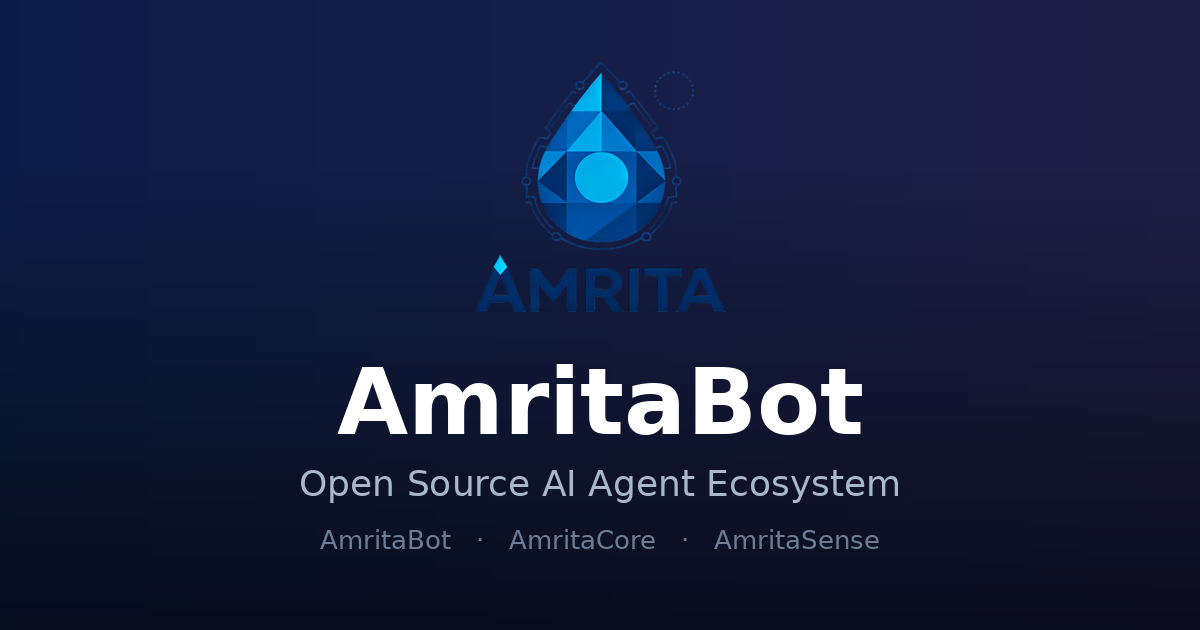
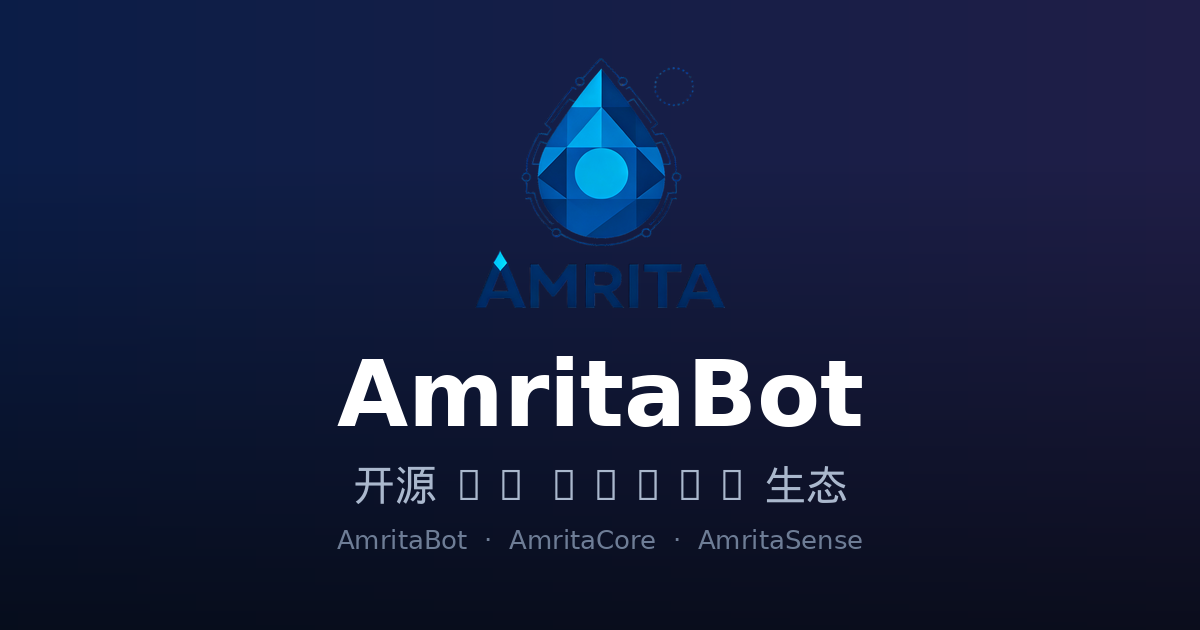
Switch the site copy to Chinese
The landing page is Chinese-facing, so every user-visible string is now
Chinese: nav, hero tagline and subtitle, section headings, project kinds
and descriptions, status badges, card link labels, footer, 404 page —
plus html lang, og:locale, JSON-LD inLanguage and the web manifest.

Product names, version numbers, repo names and the terms the docs sites
already use in English (Agent, runtime, ISA, MCP, WebUI) stay as-is.

Also:
- the footer had no links at all; it now carries the three docs sites,
  the GitHub org and all three community groups, so the community entry
  points are no longer reachable only from the middle of the page
- nav gains a 社区 link; both nav anchors are absolute so they still work
  on the 404 page, and the skip link now targets #main, which exists on
  both pages
- font stack gains CJK fallbacks (PingFang SC / Microsoft YaHei / Noto
  Sans SC). Inter stays latin-only — self-hosting a CJK face is not worth
  the megabytes when the system font reads better anyway
- OG card regenerated with the Chinese tagline, and make-assets.py now
  raises if a line would overflow the 1200x630 canvas

diff --git a/src/data/projects.ts b/src/data/projects.ts
@@ -4,6 +4,9 @@
  * All facts below were verified against the AmritaBot GitHub org and PyPI on
  * 2026-09-12 — repo descriptions, latest release tags and docs subdomains.
  * If you bump a version, update it here and nowhere else.
+ *
+ * 文案统一用中文。产品名、版本号、仓库名，以及 Agent / runtime / ISA 这类术语
+ * 保留英文，与三个文档站的用词保持一致。
  */
 
 export type ProjectStatus = 'available' | 'in-development' | 'planned';
@@ -22,16 +25,17 @@ export interface Project {
 export const site = {
   name: 'AmritaBot',
   url: 'https://www.amritabot.com',
-  title: 'AmritaBot | Open Source AI Agent Ecosystem',
+  title: 'AmritaBot | 开源 AI Agent 生态',
   description:
-    'Project.Amrita is an open-source Agent ecosystem: an Agentic chat bot built on NoneBot2, a vendor-agnostic Agent runtime, and a next-generation workflow engine.',
-  tagline: 'AmritaBot Open Source Ecosystem',
+    'Project.Amrita 是一套开源 Agent 生态：基于 NoneBot2 的 Agentic 聊天机器人、厂商无关的 Agent 运行时，以及新一代工作流引擎。',
+  tagline: 'AmritaBot 开源 Agent 生态',
   subtitle:
-    'A lightweight, high-performance Agent stack — an Agentic chat bot, a vendor-agnostic runtime, and a next-generation workflow engine.',
+    '轻量、高性能的 Agent 技术栈 —— 从 Agentic 聊天机器人到厂商无关的运行时，再到新一代工作流引擎。',
   github: 'https://github.com/AmritaBot',
   org: 'AmritaConstant',
 } as const;
 
+/** 社区入口，「加入社区」区块与页脚共用同一份数据。 */
 export const socials = [
   {
     label: 'Telegram',
@@ -40,7 +44,7 @@ export const socials = [
     bg: 'bg-[#2CA5E0]',
   },
   {
-    label: 'QQ Group',
+    label: 'QQ 群',
     icon: 'qq',
     href: 'https://qm.qq.com/q/IvG8Dm7W4m',
     bg: 'bg-[#eb1923]',
@@ -53,11 +57,18 @@ export const socials = [
   },
 ] as const;
 
+/** 文档站入口，页脚单独成列。 */
+export const docSites = [
+  { label: 'AmritaBot 文档', href: 'https://bot.amritabot.com' },
+  { label: 'AmritaCore 文档', href: 'https://core.amritabot.com' },
+  { label: 'AmritaSense 文档', href: 'https://sense.amritabot.com' },
+] as const;
+
 export const projects: Project[] = [
   {
     name: 'AmritaBot',
-    kind: 'Chat Agent',
-    desc: 'Agentic chat bot built on NoneBot2 and AmritaCore — vendor-agnostic model support, multimodal input, OneBot V11 adapters, MCP client, Agent Skills, and a built-in React WebUI.',
+    kind: '对话 Agent',
+    desc: '基于 NoneBot2 与 AmritaCore 构建的 Agentic 聊天机器人 —— 厂商无关的模型接入、多模态输入、OneBot V11 适配、MCP 客户端、Agent Skills，以及内置的 React WebUI。',
     version: '1.7.0',
     status: 'available',
     link: 'https://github.com/AmritaBot/AmritaBot',
@@ -65,8 +76,8 @@ export const projects: Project[] = [
   },
   {
     name: 'AmritaCore',
-    kind: 'Agent Runtime',
-    desc: 'Lightweight, vendor-agnostic Agent runtime built on AmritaSense — native async streaming with suspend/resume, declarative dependency injection, event hooks, tool calling and automatic memory management.',
+    kind: 'Agent 运行时',
+    desc: '基于 AmritaSense 构建的轻量、厂商无关 Agent 运行时 —— 原生异步流式输出，支持挂起与恢复；声明式依赖注入、事件钩子、工具调用与自动记忆管理。',
     version: '0.13.7',
     status: 'available',
     link: 'https://github.com/AmritaBot/AmritaCore',
@@ -74,8 +85,8 @@ export const projects: Project[] = [
   },
   {
     name: 'AmritaSense',
-    kind: 'Workflow Engine',
-    desc: 'Next-generation workflow and event-stream engine that replaces graph models with an instruction-set architecture — GOTO/CALL control flow, precise interrupts, and hot-swappable dynamic linking.',
+    kind: '工作流引擎',
+    desc: '新一代工作流与事件流引擎，以指令集架构取代图模型 —— GOTO/CALL 控制流、精确中断，以及可热插拔的动态链接。',
     version: '0.7.0',
     status: 'available',
     link: 'https://github.com/AmritaBot/AmritaSense',
@@ -83,24 +94,24 @@ export const projects: Project[] = [
   },
   {
     name: 'Faskill',
-    kind: 'Skill Runtime',
-    desc: 'Fast async skill loader that brings Anthropic Agent Skills to Python agents — drop in a SKILL.md and the skill tools are discovered and registered on demand.',
+    kind: '技能运行时',
+    desc: '高性能异步技能加载器，把 Anthropic Agent Skills 带到 Python Agent —— 放入一份 SKILL.md，技能工具即按需被发现并注册。',
     version: '0.2.0',
     status: 'available',
     link: 'https://github.com/AmritaBot/Faskill',
   },
   {
     name: 'Amctl',
-    kind: 'CLI Toolkit',
-    desc: 'Unified command line for Project.Amrita — scaffold, run and manage bots and plugins, with project templates for both documented and lightweight setups.',
+    kind: '命令行工具',
+    desc: 'Project.Amrita 的统一命令行 —— 脚手架、运行与管理机器人和插件，内置标准与轻量两套项目模板。',
     version: '0.1.4',
     status: 'available',
     link: 'https://github.com/AmritaBot/Amctl',
   },
   {
     name: 'plugin-memory',
-    kind: 'Plugin',
-    desc: 'Long-term and harness memory support for AmritaBot, extending the built-in context management with persistent recall across sessions.',
+    kind: '插件',
+    desc: '为 AmritaBot 提供长期记忆与 harness 记忆支持，在内置上下文管理之上扩展跨会话的持久召回。',
     status: 'available',
     link: 'https://github.com/AmritaBot/plugin-memory',
   },

diff --git a/src/styles/global.css b/src/styles/global.css
@@ -3,9 +3,9 @@
 /* ------------------------------------------------------------------
    Self-hosted Inter (variable, wght axis).
 
-   Only the `latin` subset is shipped — the rest of the family is dead
-   weight for an English-language landing page. The file is copied from
-   @fontsource-variable/inter; see public/fonts/LICENSE-Inter.txt (OFL).
+   Only the `latin` subset is shipped. 中文走系统字体回退（见下面的
+   --font-inter 字体栈）——自托管一套中文字体动辄几 MB，对首屏来说不划算，
+   而系统自带的苹方 / 微软雅黑本来就比任何 webfont 更贴合本地阅读习惯。
 
    The old page declared `font-family: "Inter", ...` but never loaded
    Inter at all, so every visitor silently got their system sans.
@@ -16,9 +16,9 @@
   font-display: swap;
   font-weight: 100 900;
   src: url("/fonts/inter-latin-wght-normal.woff2") format("woff2-variations");
-  unicode-range: U+0000-00FF, U+0131, U+0152-0153, U+02BB-02BC, U+02C6, U+02DA, U+02DC,
-    U+0304, U+0308, U+0329, U+2000-206F, U+20AC, U+2122, U+2191, U+2193, U+2212, U+2215,
-    U+FEFF, U+FFFD;
+  unicode-range: U+0000-00FF, U+0131, U+0152-0153, U+02BB-02BC, U+02C6, U+02DA,
+    U+02DC, U+0304, U+0308, U+0329, U+2000-206F, U+20AC, U+2122, U+2191, U+2193,
+    U+2212, U+2215, U+FEFF, U+FFFD;
 }
 
 /* ------------------------------------------------------------------
@@ -32,7 +32,8 @@
   --color-darker: #090e1a;
 
   --font-inter: "Inter Variable", "Inter", ui-sans-serif, system-ui, -apple-system,
-    "Segoe UI", Roboto, "Helvetica Neue", Arial, sans-serif;
+    "Segoe UI", Roboto, "Helvetica Neue", Arial, "PingFang SC", "Hiragino Sans GB",
+    "Microsoft YaHei", "Noto Sans SC", "Source Han Sans SC", sans-serif;
 }
 
 @layer base {

diff --git a/scripts/make-assets.py b/scripts/make-assets.py
@@ -6,13 +6,16 @@ Source artwork:
     (transparent 2048x2048 PNG, dark line art)
 
 The outputs live in public/ and are committed, so a normal `npm run build`
-never needs to run this. Re-run it only when the upstream logo changes:
+never needs to run this. Re-run it only when the upstream logo or the
+wordmark copy changes:
 
     curl -sSLo /tmp/Amrita-nobg.png \\
       https://raw.githubusercontent.com/AmritaBot/AmritaBot/main/logo/Amrita-nobg.png
     python3 scripts/make-assets.py /tmp/Amrita-nobg.png
 
-Requires Pillow and DejaVu fonts (both present on the build host).
+Fonts: DejaVu for the Latin wordmark, Droid Sans Fallback for the Chinese
+tagline on the OG card (the shipped Inter subset is latin-only). Both are
+present on the build host; neither is embedded in the page.
 """
 import sys
 
@@ -22,6 +25,7 @@ SRC = sys.argv[1] if len(sys.argv) > 1 else "/tmp/assets/Amrita-nobg.png"
 OUT = "public"
 BOLD = "/usr/share/fonts/truetype/dejavu/DejaVuSans-Bold.ttf"
 REG = "/usr/share/fonts/truetype/dejavu/DejaVuSans.ttf"
+CJK = "/usr/share/fonts/truetype/droid/DroidSansFallbackFull.ttf"
 
 DARK = (9, 14, 26)
 PRIMARY = (22, 93, 255)
@@ -53,7 +57,10 @@ def square(img, size, bg, margin=0.07):
 
 def centered_text(draw, text, font, y, fill, width=1200):
     box = draw.textbbox((0, 0), text, font=font)
-    draw.text(((width - (box[2] - box[0])) / 2 - box[0], y), text, font=font, fill=fill)
+    w = box[2] - box[0]
+    if w > width - 80:
+        raise ValueError(f"text overflows the canvas: {w}px for {text!r}")
+    draw.text(((width - w) / 2 - box[0], y), text, font=font, fill=fill)
 
 
 def og_image(art):
@@ -82,16 +89,14 @@ def og_image(art):
     bg = Image.composite(Image.new("RGB", (W, H), (5, 8, 16)), bg, shade.resize((W, H)))
 
     logo = art.resize((250, round(250 * art.height / art.width)), Image.LANCZOS)
-    bg.paste(logo, ((W - logo.width) // 2, 62), logo)
+    bg.paste(logo, ((W - logo.width) // 2, 58), logo)
 
     draw = ImageDraw.Draw(bg)
-    centered_text(draw, "AmritaBot", ImageFont.truetype(BOLD, 92), 348, (255, 255, 255))
-    centered_text(
-        draw, "Open Source AI Agent Ecosystem", ImageFont.truetype(REG, 36), 462, (170, 184, 205)
-    )
+    centered_text(draw, "AmritaBot", ImageFont.truetype(BOLD, 92), 340, (255, 255, 255))
+    centered_text(draw, "开源 AI Agent 生态", ImageFont.truetype(CJK, 42), 456, (170, 184, 205))
     centered_text(
         draw,
-        "AmritaBot   ·   AmritaCore   ·   AmritaSense",
+        "AmritaBot  ·  AmritaCore  ·  AmritaSense",
         ImageFont.truetype(REG, 26),
         524,
         (110, 125, 150),
